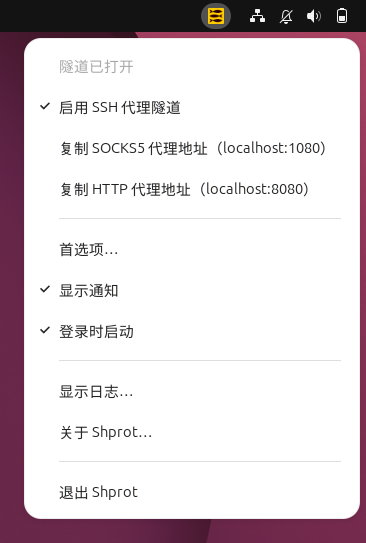
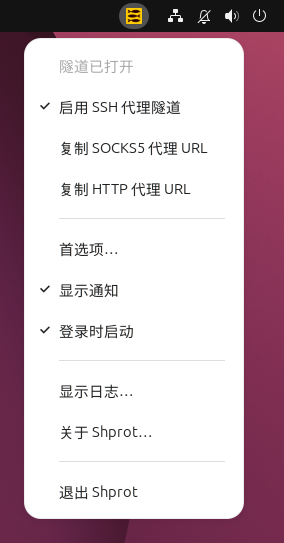
Tray menu screenshots updated, host battery hidden from the screenshot VM

diff --git a/README.ru.md b/README.ru.md
@@ -239,7 +239,7 @@ HTTP-прокси работает **через** тот же SSH-туннель
     <picture>
         <source media="(prefers-color-scheme: dark)" srcset="Assets/TrayMenu-Dark.ru.png">
         <source media="(prefers-color-scheme: light)" srcset="Assets/TrayMenu-Light.ru.png">
-        <img alt="Меню значка в трее" src="Assets/TrayMenu-Light.ru.png" width="437" height="493">
+        <img alt="Меню значка в трее" src="Assets/TrayMenu-Light.ru.png" width="315" height="493">
     </picture>
 </div>
 

diff --git a/README.md b/README.md
@@ -239,7 +239,7 @@ Right-click the tray icon to open the menu. It is grouped as follows:
     <picture>
         <source media="(prefers-color-scheme: dark)" srcset="Assets/TrayMenu-Dark.png">
         <source media="(prefers-color-scheme: light)" srcset="Assets/TrayMenu-Light.png">
-        <img alt="Tray menu" src="Assets/TrayMenu-Light.png" width="387" height="493">
+        <img alt="Tray menu" src="Assets/TrayMenu-Light.png" width="285" height="493">
     </picture>
 </div>
 
